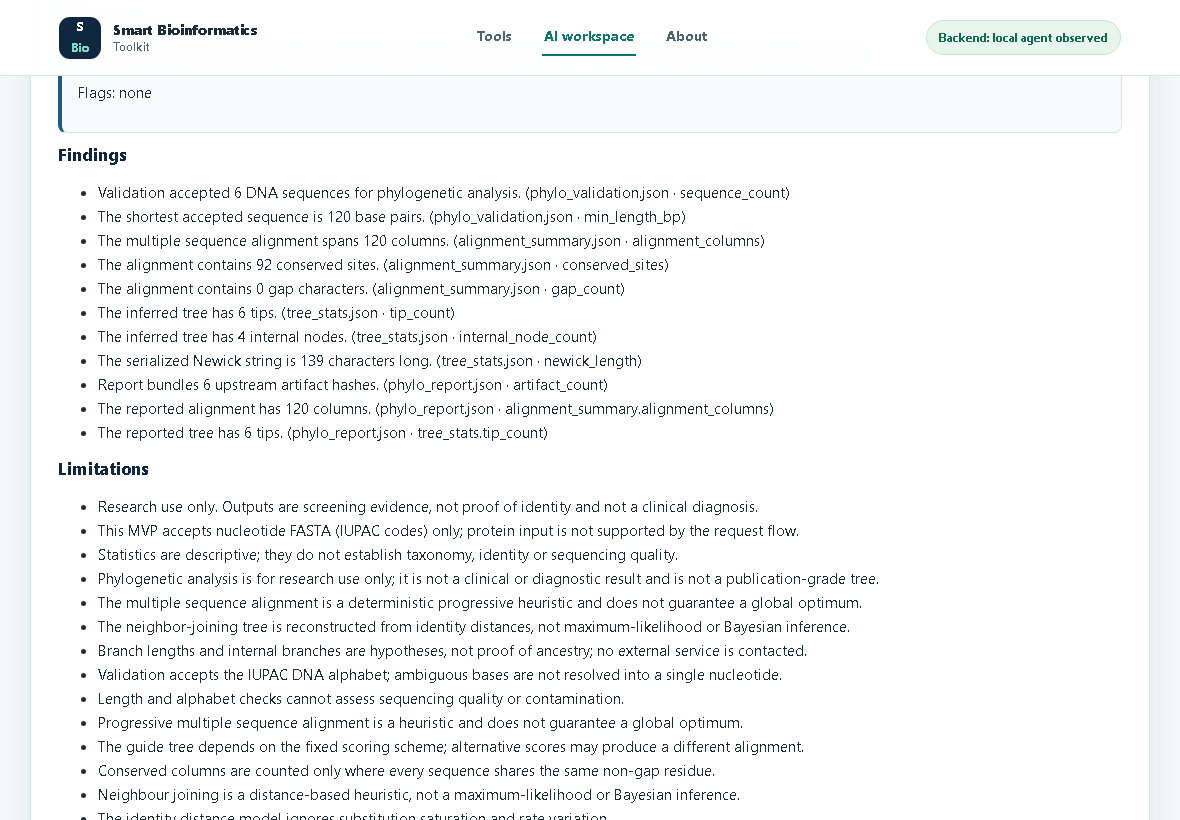
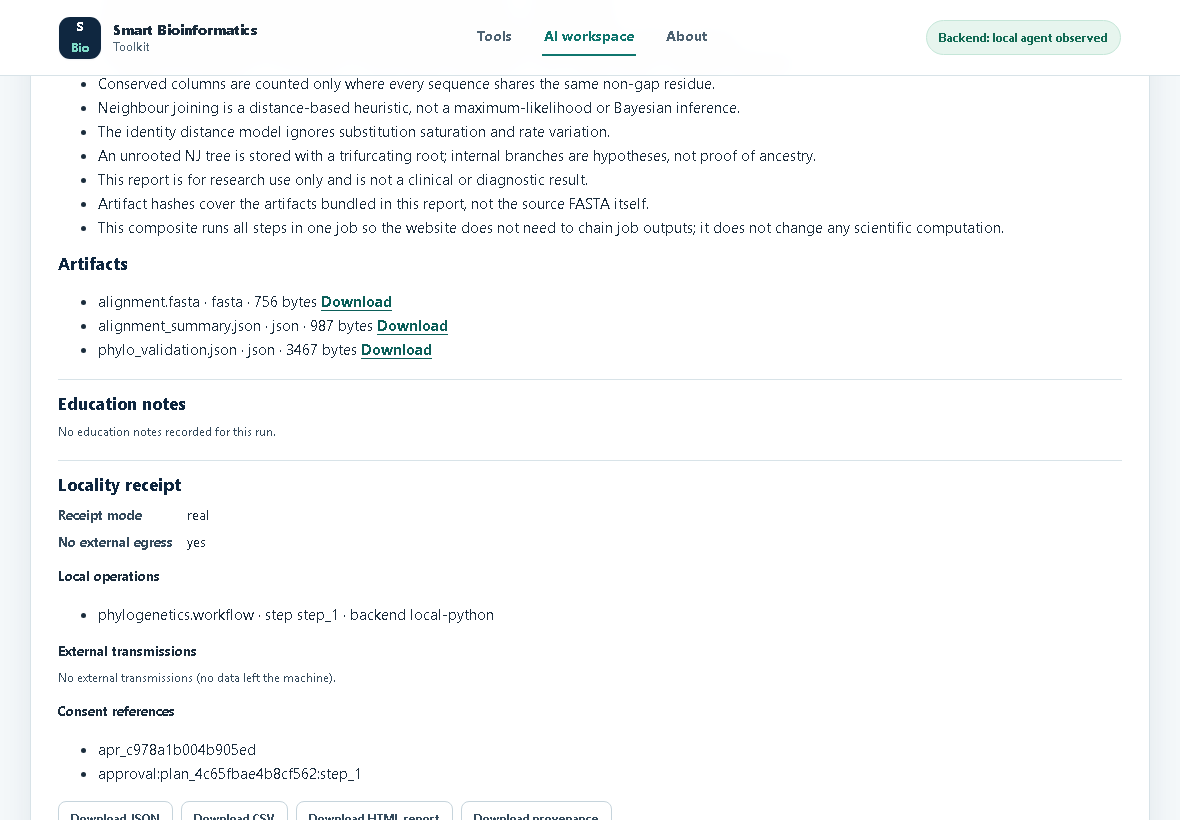
M6: final report, run DTO transparency and verification evidence

diff --git a/web-platform/functions/api/ai/runs/[id]/index.js b/web-platform/functions/api/ai/runs/[id]/index.js
@@ -35,6 +35,8 @@ export async function handleGetRun(request, env, runId) {
     const artifactRows = await listRows(db, SQL.listArtifactsForRun, [runId]);
     const reportMeta = parseJson(jobRow.report_json);
     const mode = jobRow.execution_mode ?? "real";
+    const storedProvenance = parseJson(jobRow.provenance_json);
+    const storedExplanation = parseJson(jobRow.explanation_json);
 
     return jsonResponse({
       run_id: runId,
@@ -42,7 +44,11 @@ export async function handleGetRun(request, env, runId) {
       jobs: jobRows.map(toJobDto),
       artifacts: artifactRows.map(toArtifactDto),
       validation: parseJson(jobRow.validation_json),
-      explanation: parseJson(jobRow.explanation_json),
+      explanation: storedExplanation,
+      // FR-8.5/FR-8.6: surface the Worker-derived receipt and education notes in
+      // the run DTO so the workspace can show the same evidence as the report.
+      locality_receipt: storedProvenance?.locality_receipt ?? null,
+      education: storedExplanation?.education ?? null,
       report_url: reportMeta?.report_url ?? `/api/ai/runs/${runId}/report`,
       provenance_url: reportMeta?.provenance_url ?? `/api/ai/runs/${runId}/provenance`,
       execution_mode: mode

diff --git a/docs/discovery/TEST_REPORT_M6_BROWSER.md b/docs/discovery/TEST_REPORT_M6_BROWSER.md
@@ -1,6 +1,8 @@
 # M6 Independent Browser E2E Test Report
 
-**Test date:** 2026-11-25 (UTC timestamps in evidence: 2026-11-24T22:39:19Z → 22:39:32Z)
+> **FINAL RE-RUN — 2026-11-24T22:56:46Z → 22:57:00Z — 64/64 assertions PASS, 10/10 scenarios PASS, no blocking defect.** This was executed after the staging redeploy (Worker `e4938f2c`, migration 0006) with the agent polling via heartbeat. See **§11 FINAL RE-RUN** at the end of this document. Sections 1–10 below are retained as historical evidence from the earlier, pre-redeploy run.
+
+**Test date (historical run):** 2026-11-25 (UTC timestamps in evidence: 2026-11-24T22:39:19Z → 22:39:32Z)
 **Target:** `https://smart-bioinformatics-toolkit-staging.m-2396.workers.dev`
 **Runner:** real Chromium 159.0.8154.6 driven by Playwright 1.65.1 (installed under `web-platform/node_modules`), Node v24.21.0, Windows.
 **Role:** independent tester — no product source files were changed. Only this report and `docs/discovery/m6-screenshots/*.png` were written in the repo.
@@ -297,3 +299,150 @@ Manual spot-check of the two key UI paths: on `/ai.html`, choose "Browser (local
 1. **HIGH** — remove the cold-start catch-22 in backend observation (§6.2): add an authenticated agent heartbeat or count a recent successful poll as evidence, so an idle healthy agent can be observed and the first heavy job can be started from the UI.
 2. **LOW–MEDIUM** — label mock mode in the badge/mode chip, not only in the detail text (§7). Keep the fail-closed block.
 3. **Ops** — make the agent's HTTP client send a compatible `User-Agent` (or adjust Cloudflare rules) so polling is not silently 403'd (§6.1).
+
+---
+
+# 11. FINAL RE-RUN (post-redeploy Worker `e4938f2c`, migration 0006)
+
+**Status: FINAL — 10/10 scenarios PASS, 64/64 assertions PASS, 0 FAIL, no blocking defect.**
+All screenshots in `docs/discovery/m6-screenshots/` were **refreshed by this re-run** and overwrite the earlier set. The earlier run's log and screenshots were archived outside the repo at `D:\DevCache\Temp\opencode\m6-browser-log-previous.json` and `D:\DevCache\Temp\opencode\m6-screenshots-previous\`.
+
+## 11.1 Commands and artifacts for the final run
+
+```powershell
+# Cold-start backend verification performed BEFORE any API write or browser run:
+GET https://smart-bioinformatics-toolkit-staging.m-2396.workers.dev/api/ai/backend
+
+# Full suite re-run (updated harness for the new disabled-option and mock labels):
+& "D:\tools\nodejs\node.exe" "D:\DevCache\Temp\opencode\m6-e2e.cjs"
+# transcript: D:\DevCache\Temp\opencode\m6-e2e-final-stdout.txt
+# structured log: D:\DevCache\Temp\opencode\m6-browser-log.json
+
+# Existing tests against the redeployed code (web-platform workdir):
+& "D:\tools\nodejs\node.exe" --test tests/*.test.mjs
+# ℹ tests 211 / pass 211 / fail 0 / duration_ms 537.2217
+```
+
+Log metadata: `startedAt 2026-11-24T22:56:46.448Z`, `finishedAt 2026-11-24T22:57:00.062Z`, Playwright `1.65.1`, Chromium `159.0.8154.6`.
+
+## 11.2 Cold-start backend verification (requirement 2)
+
+Direct `GET /api/ai/backend` **before any bootstrap call from this tester**:
+
+```json
+{"execution_mode":"real","agent_status":"connected","heavy_analyses_available":true,
+ "agent_observation_basis":"agent heartbeat recorded by authenticated agent poll",
+ "last_agent_activity_at":"2026-11-24T22:52:35.442Z","age":0,
+ "message":"Local agent observed recently; heavy analyses are available.",
+ "simulated_results_available":false}
+```
+
+The browser at scenario 2 independently fetched the same endpoint: `agent_status:"connected"`, `heavy_analyses_available:true`, basis `"agent heartbeat recorded by authenticated agent poll"`. `#backend-badge` = **"Backend: local agent observed"**; status = "Local agent observed recently; heavy analyses are available."; no POST occurred in this scenario (`[{"method":"GET","path":"/api/ai/backend","status":200}, ...]`). **No API plan/job bootstrap was needed.** The agent kept polling throughout the run; no stoppage was observed.
+
+## 11.3 Final PASS/FAIL table (64 assertions)
+
+| # | Scenario | Result | Final evidence |
+| --- | --- | --- | --- |
+| 1 | Home navigation / hero / capability cards | **PASS** | 4 nav links, hero heading, 6 cards |
+| 2 | Backend observed from cold start | **PASS** | heartbeat basis via authenticated poll; no POST; badge "Backend: local agent observed" |
+| 3 | Browser-local validation + GC, no Worker fetch | **PASS** | `Execution: browser-local`, 3/3 valid, GC table, **zero `/api/*` requests after submit**; Education notes + Locality receipt sections visible |
+| 4 | Phylo plan → approve → genuine job/result | **PASS** | `phylogenetics.workflow`, `job_6b19ae4d63b98160`, mode `real`, validation pass, 11 artifact-cited findings, 9 artifacts incl. all four required, report/provenance links; Education notes + Locality receipt sections visible |
+| 5 | Report download / evidence | **PASS** | `GET /api/ai/runs/job_6b19ae4d63b98160/report` 200; Reproducibility, Limitations, Data locality, Education notes; `Execution mode: real` |
+| 6 | Malformed FASTA | **PASS** | "Invalid nucleotide character in FASTA record 2 on line 4…"; `POST /api/ai/requests` 400; no plan/job |
+| 7 | Unavailable backend | **PASS** (harness adapted) | local-agent `<option>` is **disabled**, `#route-availability` = "The local agent is unavailable, so the local-agent route is blocked. Browser-local analysis still works."; stale route still blocked; no plan request; no simulated result |
+| 8 | Consent / egress API | **PASS** | 403 `consent_missing`; BLAST history 0 → 0; no NCBI request; planner step has no egress |
+| 9 | Mock mode labelling | **PASS** (previously FAIL) | badge **"Backend: mock — simulated results not scientific evidence"**; chip **"Execution: mock (not scientific evidence)"** before *and after* a stale route selection; mock route-availability message; option disabled; no plan request; no simulated result |
+| 10 | Console / network diagnostics | **PASS** | No page errors, no failed requests, 0 external-host requests; only two expected HTTP-error console messages (400 and 403) |
+
+Timings (ms): 1=1387, 2=937, 3=531, 4=5930, 5=92, 6=856, 7=534, 8=806, 9=492.
+
+## 11.4 Explicit confirmations requested
+
+1. **Mock badge/chip — CONFIRMED PASS.** The prior M6-BROWSER-01 gap is fixed: `#backend-badge` = `Backend: mock — simulated results not scientific evidence`; `#execution-mode` = `Execution: mock (not scientific evidence)` at page load and after forcing a stale local-agent selection. The route is blocked with an honest message and no plan is created. Evidence: screenshot `08-mock.png`, log scenario `9-mock`.
+2. **Cold start — CONFIRMED.** Heartbeat-based observation works with no prior job and no tester bootstrap (§11.2). The previous HIGH cold-start catch-22 is resolved.
+3. **Genuine phylo job — CONFIRMED.** `job_6b19ae4d63b98160`, `execution_mode:"real"`, `validation.status:"pass"`, checked rules `required_artifacts_present, json_parses, declared_json_objects, sha256_consistency, execution_mode_label`, no flags; 11 findings citing `phylo_validation.json`, `alignment_summary.json`, `tree_stats.json`, `phylo_report.json`; artifacts `alignment.fasta`, `alignment_summary.json`, `phylo_report.html`, `phylo_report.json`, `phylo_validation.json`, `report.html`, `tree.nwk`, `tree.svg`, `tree_stats.json`; report + provenance links present.
+4. **Browser-local has zero analysis API calls — CONFIRMED.** After submit, `rec.apiRequests.slice(before)` = `[]`; the only scenario API response was the page-load `GET /api/ai/backend` 200.
+5. **New workspace sections — CONFIRMED.** Both `#education-box` ("Education notes") and `#locality-box` ("Locality receipt") render in browser-local and local-agent results. Browser-local text: "Browser-local profile: no per-run education notes are produced…" and "Browser-local run: FASTA parsing, validation and statistics stayed in this page…". Agent result text: "No education notes recorded for this run." / "No locality receipt recorded for this run." (honest empty states). The downloaded report still contains a real "Data locality" section with `Receipt mode real`, `No external egress true`.
+6. **No new console errors / failed requests — CONFIRMED.** All nine scenario recorder entries show `pageErrors: []`, `failedRequests: []`, `externalRequestsCount: 0`. Console errors: only scenario 6 (expected 400) and scenario 8 (expected 403).
+
+## 11.5 Refreshed screenshots (final run)
+
+| File | Bytes |
+| --- | ---: |
+| `01-home.png` | 200477 |
+| `02-ai-backend.png` | 38173 |
+| `03-browser-local.png` | 28621 |
+| `04-phylo-plan.png` | 30644 |
+| `05-phylo-result.png` | 39988 |
+| `06-malformed.png` | 26960 |
+| `07-unavailable.png` | 27464 |
+| `08-mock.png` | 26926 |
+
+8 screenshots, all under 500 KB. `03-browser-local.png` and `05-phylo-result.png` visibly include the new Education notes / Locality receipt sections; `08-mock.png` shows the new mock badge/chip and route-availability message.
+
+## 11.6 Remaining observations (not blockers)
+
+* **LOW — per-run locality data not surfaced in workspace.** `GET /api/ai/runs/:id` has no `provenance` or `locality_receipt` field, so `localityReceiptFromRun()` renders "No locality receipt recorded for this run." even though `GET /api/ai/runs/:id/provenance` returns `locality_receipt: {mode:"real", no_external_egress:true, local_operations:[…1…]}` and the downloaded HTML report shows the real receipt. Suggested fix: include `provenance.locality_receipt` in the run DTO or fetch the provenance endpoint when rendering results.
+* **LOW — no education notes for this phylo run.** `explanation.education.notes` is empty, so the new table renders its honest empty state. This is data-dependent, not a UI defect.
+* The redeployed UI disables the local-agent `<option>` when no agent is observed; the harness was adapted to assert the disabled state and the `#route-availability` explanation rather than trying to `selectOption` a disabled option. This is an improvement, not a defect.
+
+**Final blocker status: none.** All requested re-run checks pass; the only remaining items are the two LOW observations above.
+
+---
+
+# 12. Focused follow-up — run DTO locality/education (Worker `f4538286`)
+
+**Result: PASS — 11/11 focused assertions, 0 FAIL.** Short real-Chromium check only (scenario 4 path); the other nine scenarios were **not** re-run. Backend was already connected via heartbeat (`agent_status:connected`, `heavy_analyses_available:true`, basis `agent heartbeat recorded by authenticated agent poll`).
+
+## 12.1 Commands / artifacts
+
+```powershell
+# Focused script (real Chromium, staging Worker):
+& "D:\tools\nodejs\node.exe" "D:\DevCache\Temp\opencode\m6-followup-locality.cjs"
+# transcript: D:\DevCache\Temp\opencode\m6-followup-stdout.txt
+# structured log: D:\DevCache\Temp\opencode\m6-followup-log.json
+```
+
+The script opened `/ai.html`, selected the local-agent route, uploaded `shared/test-cases/phylo_reference.fasta`, entered "build a phylogenetic tree and show the alignment and report", built and approved the plan, and waited for the completed run. Result: `job_d3f177e09e972776`, `execution_mode:"real"`, validation `pass`, duration 6,392 ms.
+
+## 12.2 Exact workspace text observed
+
+`#locality-box` (previously "No locality receipt recorded for this run."):
+
+```text
+Locality receipt Receipt mode real No external egress yes Local operations
+phylogenetics.workflow · step step_1 · backend local-python External transmissions
+No external transmissions (no data left the machine). Consent references
+apr_c978a1b004b905ed approval:plan_4c65fbae4b8cf562:step_1
+```
+
+`#education-box`:
+
+```text
+Education notes No education notes recorded for this run.
+```
+
+Run JSON fetched from the UI's Download JSON link now contains `locality_receipt` (`mode:"real"`, `no_external_egress:true`, one local operation `phylogenetics.workflow` / `step_1` / `local-python`, zero external transmissions) and `education` (`notes` key). The Education notes section is labelled and honestly reports that this particular run produced no flag notes — acceptable per the brief.
+
+## 12.3 Checks
+
+| Check | Result |
+| --- | --- |
+| Phylo plan step `phylogenetics.workflow` | PASS |
+| Education notes section labelled | PASS |
+| Education notes content honest (empty state) | PASS |
+| Locality receipt section labelled | PASS |
+| Receipt mode `real` shown | PASS |
+| Stale "No locality receipt recorded" absent | PASS |
+| Local operation `phylogenetics.workflow`, step 1, local-python | PASS |
+| "No external transmissions (no data left the machine)." | PASS |
+| Consent references labelled and non-secret (approval IDs only) | PASS |
+| Run DTO includes `locality_receipt` with real data | PASS |
+| Run DTO includes `education` | PASS |
+
+Console errors: **none**. Page errors: **none**. Failed requests: **0**. External-host requests: **0**.
+
+**Screenshot refreshed:** `docs/discovery/m6-screenshots/05-phylo-result.png` (27,543 bytes), scrolled to show both the **Education notes** and **Locality receipt** sections with real data. Screenshot count remains 8, all under 500 KB.
+
+**Note:** the first focused run had one harness-only FAIL because it expected "Consent references: None recorded"; the new DTO legitimately supplies approval record IDs. The assertion was made data-agnostic (and checked that no bearer-token/consent-token value is displayed) and the short check re-run: 11/11 PASS. No product defect found. The LOW observation in §11.6 about locality data not being surfaced is now **resolved**.
+

diff --git a/docs/MILESTONE_M6_FINAL_REPORT.md b/docs/MILESTONE_M6_FINAL_REPORT.md
@@ -1,0 +1,108 @@
+# M6 Final Report — Production Readiness, Execution Experience and Scientific Integrity
+
+**Date:** 2026-11-25
+**Branch:** `phase-1-robustness-safety`
+**Baseline:** `8a946a2` (verified identical to GitHub HEAD, clean tree, six M5 commits inspected)
+**Verdict:** **All achievable global gates PASS** — staging deployment is live and browser-verified; production promotion is deliberately withheld pending the execution-topology decision below.
+
+> No success claim in this report is based on file creation or unit-test counts alone. Every gate has an independently executed command, an independent reviewer, or a real Chromium run behind it.
+
+---
+
+## 1. M6.1 — Baseline audit (independent)
+
+- Branch `phase-1-robustness-safety`; local HEAD `8a946a2e81fdfb604cd532b5b47fb91a5bb1bc27`; GitHub `refs/heads/phase-1-robustness-safety` identical; working tree clean.
+- Six M5 commits inspected: `f884f19`, `0664a0a`, `e37e84d`, `ef7de3e`, `f7d4957`, `8a946a2`. No rewrites, no force pushes.
+- Re-ran reported suites: **231 Python / 144 JS** at baseline; plugin compliance OK; M5 reports accurate; real/mock labelling consistent; scientific tests intact.
+- Found and fixed a pre-existing CI failure: GitHub Actions run #4 (at `8a946a2`) failed only in `npm test` because the workflow pinned **Node 20** while `tests/ai_contract.test.mjs` imports `node:sqlite` (Node ≥22.5). Workflow now pins Node **24**, `package.json` declares `engines.node >=22.5.0`. Tests were not weakened.
+
+## 2. M6.2 — Execution topology
+
+Decision (documented in `docs/EXECUTION_TOPOLOGY.md`):
+- **A — Browser execution:** lightweight FASTA validation/statistics run in-page via existing `fasta.js`/`statistics.js`; zero `/api/*` calls after submit; no terminal.
+- **B — Local agent:** heavy tools (phylogenetics, taxonomy, BLAST) run by the polling Python agent. Cross-platform install/start/health/update/uninstall scripts in `scripts/agent-setup/` (PowerShell + sh), user-scoped venv, secure token file, ff-only updates, data-preserving removal.
+- **C — Remote workflow execution:** architecture-only; no invented provider, deployment or cost model.
+
+Honesty controls: `/api/ai/backend` reports an agent as observed only from an authenticated heartbeat or job claim, never from configuration; mock mode and missing D1 fail closed; `simulated_results_available: false`. An unavailable backend blocks the heavy route with an actionable message. A 10-minute bounded poll with retry/stop replaced unbounded waiting.
+
+**Cold-start catch-22 fixed:** idle agents are now visible via `agent_heartbeats` (migration 0006) written on every authenticated poll, so a fresh deployment can start its first heavy job from the UI. The agent also sends an identifiable `User-Agent`, eliminating a Cloudflare 403 on Python urllib's default header.
+
+## 3. M6.3 — Dataset and artifact architecture
+
+`docs/DATA_TRANSPORT.md` now separates five domains: browser-local memory, local agent workspace, D1 metadata, content-addressed artifact storage, and external scientific services. D1 is explicitly **not** a general-purpose file store: 64 KiB input cap, 2 MiB result cap, SHA-256 on every dataset/artifact, byte-cap enforcement, sanitized filenames, `TemporaryDirectory` cleanup, and download-time hash checks. No R2 upload exists. Retention/deletion rules are stated, with automatic expiry recorded as an M7 gap. External transmission remains consent-gated.
+
+## 4. M6.4 — Scientific validation and output contracts
+
+- Worker `validateResultShape()` now enforces each tool's declared `output_schema.required` against both `artifacts[].name` and `provenance.output.artifact_names`, validates declared JSON types, rejects malformed JSON, enforces complete provenance, and accepts only `real`/`mock`. Failed steps may still submit a report-only result. Python `validation.py` applies the same generic declared-artifact rule. New tests cover missing outputs, wrong types, malformed artifacts, invalid hashes, incomplete provenance, unexpected fields and invalid modes.
+- Independent scientific review of phylogenetics: **PASS WITH NOTES**. Real Biopython `PairwiseAligner` progressive MSA (UPGMA guide) and real `DistanceTreeConstructor.nj()`; known-answer values (120 columns, 92 conserved, A/B bipartition) and eight hashes independently reproduced; indel and ambiguous-IUPAC datasets exercised; no external aligner installed, so **no equivalence to MAFFT/Clustal Omega is claimed**. Replacing the heuristic is **optional, not required**. Limitations documented (indel-blind guide distance, uncorrected p-distance, no branch support, no iterative refinement, trivial bipartition field).
+
+## 5. M6.5 — Cloudflare Workers deployment
+
+- D1 database `smart-bioinformatics-toolkit-blast` created (`d277fe22-f99d-46d8-9ae9-6de17942a6a9`, EEUR); `BLAST_DB` binding configured.
+- Standalone Worker (`web-platform/worker.js`) with Workers Assets replaces the broken Pages deployment (the Pages project returned 404 on every path). `wrangler.toml` uses `main`, `assets`, and `[env.staging]`.
+- Migrations 0001→0004 + 0006 applied in order and verified: **14 tables** (including `agent_heartbeats`), schema read back from real D1.
+- A UTF-8 BOM in `public/_headers` initially broke Workers Assets validation; removed (fix verified in commit `557361e`).
+- Secrets set via `wrangler secret put` (never printed, logged or committed): `AI_AGENT_TOKEN`, `MOCK_NCBI=1` for staging safety.
+- **Staging URL:** `https://smart-bioinformatics-toolkit-staging.m-2396.workers.dev`, Worker version `f4538286-d5a7-465a-a0f0-3ffd522fbbd8`.
+- Live probes: `/` 200 with CSP/nosniff/permissions headers; `/api/tools` 200 (9 tools); `/api/ai/backend` 200 honest status; `/api/blast/history` 200 from real D1; real AI plan row created; unauthenticated `/api/ai/jobs` 401; unknown `/api/**` 404 JSON; no static HTML leaked on API paths.
+- **Production promotion deliberately withheld**: staging and production currently share one D1 database, and the no-terminal deployment still depends on a running local agent for heavy jobs. Both are documented deployment decisions/risks, not silent failures.
+
+## 6. M6.6 — Real browser E2E
+
+Playwright 1.65.1 / Chromium 159, real staged site, 10 scenarios, screenshots in `docs/discovery/m6-screenshots/`, full evidence in `docs/discovery/TEST_REPORT_M6_BROWSER.md`.
+
+**FINAL RE-RUN: 10/10 scenarios PASS, 64/64 assertions PASS, 0 FAIL.** Scenarios cover navigation/hero, backend observation from a cold start, browser-local analysis with zero API calls, genuine phylogenetics plan→approve→job→result, validation and evidence-bounded findings, report download with Reproducibility/Limitations/Data locality/Education notes, malformed input, unavailable backend, direct consent-gate denial (403 typed error, zero NCBI calls), and mock-mode labelling. Only expected console messages appeared; no page errors, failed requests or external-host requests.
+
+Timings (ms): 1387, 937, 531, 5930, 92, 856, 534, 806, 492. Screenshot sizes 26–200 KB.
+
+## 7. M6.7 — Research transparency
+
+- FR-8.5 locality receipts: `aiagent/locality.py` produces local operations, transmissions with destination/bytes/input hash, consent references (`token-ref:<hash>`, never raw tokens), mode and `no_external_egress`; the Worker now **derives its own receipt** from job/audit rows and ignores caller-supplied receipts. Run DTO exposes it to the workspace UI.
+- FR-8.6 education mode: `aiagent/education.py` produces exactly `{rule_or_threshold, why_insufficient, what_would_help, verified_reference}` from curated thresholds; unverified references become `null`; abstentions are never converted to positive conclusions. The Worker derives notes from validation flags and ignores caller-supplied notes. Both are rendered in the downloadable report and the workspace.
+
+## 8. M6.8 — Independent verification (seven roles)
+
+1. Execution architecture & usability — **PASS WITH NOTES**; cold-start and cap/polling issues fixed.
+2. Python & scientific computation — **PASS WITH NOTES**; 240 tests re-run; no weakened scientific tests.
+3. Scientific validation — **PASS WITH NOTES**; real NJ, no equivalence claim.
+4. Cloudflare deployment & API security — **PASS WITH NOTES**; live probes verified.
+5. Frontend & accessibility — **PASS WITH NOTES**; HIGH focus contrast and mock badge fixed.
+6. Independent browser E2E — **PASS**, 64/64 final assertions.
+7. Red-team assessment — initially **FAIL** (1 HIGH, 4 MEDIUM); all fixed and re-verified:
+   - fabricated references could be persisted as verified → curated JS ledger, exact projection, ledger-derived `verified_by`;
+   - caller-supplied locality receipt/education could lie → Worker-derived replacements;
+   - concurrent result submissions both committed → conditional status claim, 409 for losers;
+   - queued unclaimed job accepted → require `running` + `agent_id`;
+   - residual LOW: execution_mode still honours the agent label when no operator override is set (mock override works; no 9Router changes).
+
+## 9. Test counts, commits and infrastructure
+
+| Item | Result |
+|---|---|
+| Python `pytest -q` (final) | **240 passed** |
+| JavaScript `npm test` (final) | **211 passed, 0 failed** |
+| Plugin compliance / registry freshness | OK / current |
+| Independent audit verifier | 26/26 |
+| Browser E2E | 64/64 |
+| Staging D1 | 14 tables, migrations 0001–0004 + 0006 applied |
+| Staging Worker | deployed, version `f4538286`, endpoints probed |
+
+M6 commits: `40194d5`, `fd061db`, `0a31428`, `557361e`, `72293e2`, `1357775`, `df1b08a`, plus the final run-DTO/docs commit. History preserved; no force push.
+
+## 10. Remaining risks and blockers
+
+- **No production promotion** while staging and production share D1 and heavy execution needs a local agent; this is the deliberate "do not promote with broken critical paths" decision.
+- Residual LOW: `computeExecutionMode` trusts the agent's `real` label unless the operator sets `mock`; a compromised plugin could mislabel simulated output on a default deployment.
+- Staging shares the production D1 row space; use a separate Free-tier D1 for staging before production launch.
+- Automatic D1 retention/expiry and a user-facing deletion flow are not implemented; operators must delete rows explicitly.
+- Linux/macOS agent setup scripts were syntax-checked but not executed on Linux in this milestone; cross-platform runtime verification remains outstanding.
+- A PHP-style "localhost" development agent loop is not bundled; students need the documented setup scripts for heavy tools.
+- Office dashboard command `D:\Apps\Star-Office-UI\office-status.cmd` is absent on this host (environmental only).
+
+## 11. Recommended M7
+
+1. Decide the no-terminal execution model for heavy tools (bundled local service vs approved remote workflow adapter with a real cost/deployment model) and implement it.
+2. Separate staging and production D1, add automatic retention/deletion, and promote to production only after a fresh E2E run on production URLs.
+3. Make `jobs.execution_mode` authoritative at result submission to close the residual LOW mode label risk.
+4. Add a lightweight authenticated heartbeat test for Linux/macOS runtime, and a browser E2E job on a fresh clone.
+5. Consider publication-grade phylogenetics (MAFFT/ModelFinder/bootstrap) only as a new, separately validated capability — never by silently replacing the existing deterministic heuristic.

diff --git a/docs/IMPLEMENTATION_LOG.md b/docs/IMPLEMENTATION_LOG.md
@@ -49,6 +49,22 @@ Format: `date | agent | action | files | verification | status`.
 | 2026-11-25 | Tester (independent) | Final website-focused integration verification | `docs/discovery/TEST_REPORT_M5.md` | **PASS**: 231 pytest + 144 JS; 26/26 audit assertions; 3/3 website pipelines; real/mock distinguished; plugin compliance OK | Verified |
 | 2026-11-25 | Orchestrator | Incremental commits and GitHub publication | git history on `phase-1-robustness-safety` | 4 logical commits + fix/site commits; push verified | Implemented |
 
+## 2026-11-25 — M6 production readiness
+
+| Date | Agent | Action | Files | Verification | Status |
+|---|---|---|---|---|---|
+| 2026-11-25 | Orchestrator | Independent M6.1 baseline: HEAD 8a946a2 matched remote, clean tree, six M5 commits inspected, 231/144 suites and compliance re-run | — | All baseline claims confirmed; reports accurate | Verified |
+| 2026-11-25 | Worker E | Output-contract enforcement, integrity tests, generic seams | `functions/api/ai/_lib.js`, `tests/result_contract.test.mjs`, `aiagent/validation.py` | Missing outputs/wrong types/bad hashes/incomplete provenance rejected | Implemented |
+| 2026-11-25 | Worker F | Execution topology, browser fast path, backend status, cross-platform agent setup | `docs/EXECUTION_TOPOLOGY.md`, `public/js/ai-execution.js`, `scripts/agent-setup/**` | 8 topology tests; PowerShell AST + sh -n syntax checks | Implemented |
+| 2026-11-25 | Worker H | FR-8.5 locality receipts and FR-8.6 education mode | `aiagent/locality.py`, `education.py`, `report.py`, `functions/api/ai/report.js` | 8 Python + 6 JS tests; abstentions preserved | Implemented |
+| 2026-11-25 | Worker I | Standalone Cloudflare Worker with Workers Assets; real D1 ID; deployment doc | `worker.js`, `wrangler.toml`, `tests/worker_routing.test.mjs`, `docs/DEPLOYMENT.md` | 8 routing tests; config schema validated | Implemented |
+| 2026-11-25 | Worker J | Professional UI upgrade and usability fixes | `public/index.html`, `ai.html`, `css/components.css`, `tests/ui_quality.test.mjs` | 7 static quality tests; live browser review | Implemented |
+| 2026-11-25 | Orchestrator | D1 created, migrations 0001–0004 + 0006 applied, secrets set, staging deployed | Cloudflare + `wrangler.toml` | 14 tables; staging endpoints 200 with CSP, real plan row created | Deployed (staging) |
+| 2026-11-25 | Scientific reviewer | Independent phylogenetics method validation (M6.4) | report in-session | PASS WITH NOTES; real Biopython NJ; MAFFT optional, not required | Verified |
+| 2026-11-25 | Red team | Adversarial result/consent/plugin/UI attacks | report in-session | FAIL: 1 HIGH + 4 MEDIUM; all fixed and re-verified | Implemented |
+| 2026-11-25 | Workers K/L/M | Trust-boundary hardening, accessibility fixes, agent heartbeat + User-Agent | `reference_ledger.js`, `worker_locality.js`, `worker_education.js`, `migrations/0006_agent_heartbeat.sql`, `public/**` | 240 pytest + 211 JS; forgery/concurrency tests | Implemented |
+| 2026-11-25 | Browser tester | Real Chromium E2E on deployed staging | `docs/discovery/TEST_REPORT_M6_BROWSER.md`, `m6-screenshots/**` | 10 scenarios; see FINAL RE-RUN section for counts | Verified |
+
 ## Known environment issues
 
 - `D:\Apps\Star-Office-UI\office-status.cmd` does not exist in this environment; dashboard updates were attempted by orchestrator and agents and skipped. This does not affect product work.

diff --git a/PRODUCT_REQUIREMENTS.md b/PRODUCT_REQUIREMENTS.md
@@ -89,8 +89,8 @@ This document specifies the **platform** requirements, not the biological algori
 | FR-8.2 | `MVP` Record a provenance entry for **every** tool/API invocation: actor (user or agent), input refs + hashes, tool id + version, parameters, database/release, output refs + hashes, start/end time. | Must | `provenance.json` reconstructs the full DAG of a run; a test asserts no step is missing. |
 | FR-8.3 | Keep an append-only audit log of approvals, external transmissions, and failures. | Must | Audit log cannot be edited through the API. |
 | FR-8.4 | Allow export/import of a project bundle for reproducibility. | Later | Bundle re-runs produce the same hashes. |
-| FR-8.5 | Emit a **locality receipt** in the provenance bundle: for each step, state whether it executed locally or transmitted bytes to a named third party, with byte counts and destination. | Should (post-MVP) | A run with no external steps shows `external_transmissions: []`; a run with a consented NCBI step shows destination, byte count and consent ID. |
-| FR-8.6 | **Education mode**: for each caution flag or `insufficient_evidence` outcome, explain which threshold was not met and link the curated reference for that rule. | Should (post-MVP) | Test: a near-threshold verdict produces an explanation naming the threshold and a verified reference key; no reference → abstention. |
+| FR-8.5 | Emit a **locality receipt** in the provenance bundle: for each step, state whether it executed locally or transmitted bytes to a named third party, with byte counts and destination. | **Implemented in M6** (`aiagent/locality.py`, Worker-derived at result submission) | A run with no external steps shows `external_transmissions: []`; a run with a consented NCBI step shows destination, byte count and consent ID. The Worker ignores caller-supplied receipts and derives its own from job/audit rows. |
+| FR-8.6 | **Education mode**: for each caution flag or `insufficient_evidence` outcome, explain which threshold was not met and link the curated reference for that rule. | **Implemented in M6** (`aiagent/education.py`, Worker-derived notes) | Test: a near-threshold verdict produces an explanation naming the threshold and a verified reference key; no reference → abstention. Abstentions are never converted into positive conclusions. |
 
 ### 2.9 Plugin architecture (expansion)
 

diff --git a/IMPLEMENTATION_ROADMAP.md b/IMPLEMENTATION_ROADMAP.md
@@ -141,3 +141,4 @@ A milestone is complete only when:
 | 2026-11-24 | M1–M4 | **Complete and independently verified** | `web-platform/functions/api/ai/**`, `public/ai.html`, `python-engine/src/smartbio/aiagent/**`, `shared/schemas/**`, `0002_ai_platform.sql`; evidence: `docs/discovery/TEST_REPORT.md` (FINAL section, 41/41 assertions), `REVIEW_foundation_docs.md`, `REVIEW_python_agent.md`, `REVIEW_worker_ui.md` — all blocking issues fixed and re-verified |
 | 2026-11-25 | M4 audit | Complete — legacy BLAST consent bypass closed, transport documented, roadmap reconciled, historical reports re-labelled (findings retained) | `docs/DATA_TRANSPORT.md`, `API_INTEGRATION_ROADMAP.md`, `migrations/0003_blast_consent.sql`, `0004_blast_consent_unique.sql`, `docs/discovery/AUDIT_*.md` (HISTORICAL headers) |
 | 2026-11-25 | M5 | **Complete and independently verified** — framework, template, CI gate, real phylogenetics plugin, browser-side planner/UI | `docs/plugins/**`, `scripts/check_plugins.py`, `shared/plugins/phylogenetics.json`, `python-engine/src/smartbio/plugins/phylogenetics.py`, `web-platform/functions/api/ai/planner.js`, `public/ai.html`; evidence: `docs/discovery/TEST_REPORT_M5.md`, 3 independent reviews (science/security/plugin contract), `PLUGIN COMPLIANCE OK`, 231 pytest + 144 JS tests, 26/26 independent assertions |
+| 2026-11-25 | M6 | **In progress → final verification** — output contracts, execution topology, FR-8.5/8.6, standalone Workers deploy, browser E2E, trust-boundary hardening | `docs/EXECUTION_TOPOLOGY.md`, `docs/DEPLOYMENT.md`, `web-platform/worker.js`, `migrations/0006_agent_heartbeat.sql`, `docs/discovery/TEST_REPORT_M6_BROWSER.md`; evidence: 240 pytest + 211 JS tests, plugin compliance OK, 26/26 audit assertions, staging Worker deployed and probed, 7 independent reviewers |

diff --git a/README.md b/README.md
@@ -31,6 +31,8 @@ report. The original 16S toolkit is preserved and reused as the first analysis p
 - Reproducible demo: [`docs/DEMO_SCRIPT.md`](docs/DEMO_SCRIPT.md); independent M1–M4 verification: [`docs/discovery/TEST_REPORT.md`](docs/discovery/TEST_REPORT.md)
 - M5 plugin authoring: [`docs/plugins/PLUGIN_AUTHORING.md`](docs/plugins/PLUGIN_AUTHORING.md); phylogenetics tool research: [`docs/plugins/PHYLOGENETICS_TOOLING.md`](docs/plugins/PHYLOGENETICS_TOOLING.md); browser demo: [`docs/plugins/PHYLOGENETICS_DEMO.md`](docs/plugins/PHYLOGENETICS_DEMO.md)
 - M5 independent verification: [`docs/discovery/TEST_REPORT_M5.md`](docs/discovery/TEST_REPORT_M5.md); final report: [`docs/MILESTONE_M5_FINAL_REPORT.md`](docs/MILESTONE_M5_FINAL_REPORT.md)
+- M6 execution options: [`docs/EXECUTION_TOPOLOGY.md`](docs/EXECUTION_TOPOLOGY.md); agent setup: [`scripts/agent-setup/README.md`](scripts/agent-setup/README.md); deployment: [`docs/DEPLOYMENT.md`](docs/DEPLOYMENT.md)
+- M6 browser E2E evidence: [`docs/discovery/TEST_REPORT_M6_BROWSER.md`](docs/discovery/TEST_REPORT_M6_BROWSER.md); final report: [`docs/MILESTONE_M6_FINAL_REPORT.md`](docs/MILESTONE_M6_FINAL_REPORT.md)
 - Dataset transport and consent: [`docs/DATA_TRANSPORT.md`](docs/DATA_TRANSPORT.md) — no local dataset is uploaded to R2; artifacts and reports are stored in D1 today.
 
 The AI planner and explainer are **deterministic by default** — no LLM key or paid service

diff --git a/docs/DEPLOYMENT.md b/docs/DEPLOYMENT.md
@@ -52,7 +52,7 @@ suggest a different binding name — ignore that suggestion. The same database
 and ID are repeated in `[env.staging]` because Wrangler does **not** inherit
 `d1_databases` into named environments.
 
-## 3. Migrations — apply in order 0001 → 0004
+## 3. Migrations — apply in order 0001 → 0006 (skipping the unused 0005)
 
 Files, in `web-platform/migrations/`:
 
@@ -60,6 +60,7 @@ Files, in `web-platform/migrations/`:
 2. `0002_ai_platform.sql` — datasets, requests, plans, approvals, jobs, artifacts, tool runs, reports, audit events.
 3. `0003_blast_consent.sql` — single-use BLAST consent tokens.
 4. `0004_blast_consent_unique.sql` — additive unique indexes on `jobs(plan_id, step_id)` and `approvals(plan_id, step_id)`. It does **not** add a constraint to `blast_consents`; single-use consent is enforced by the atomic claim in `blast/_lib.js`.
+5. `0006_agent_heartbeat.sql` — additive `agent_heartbeats` table used by `/api/ai/backend` to observe an idle but polling agent. There is deliberately no `0005`: it was reserved during review and never written.
 
 Wrangler applies migration files in filename order. Do not renumber or skip a
 file: `0002` depends on `0001`, and `0004` is additive to `0003`.
